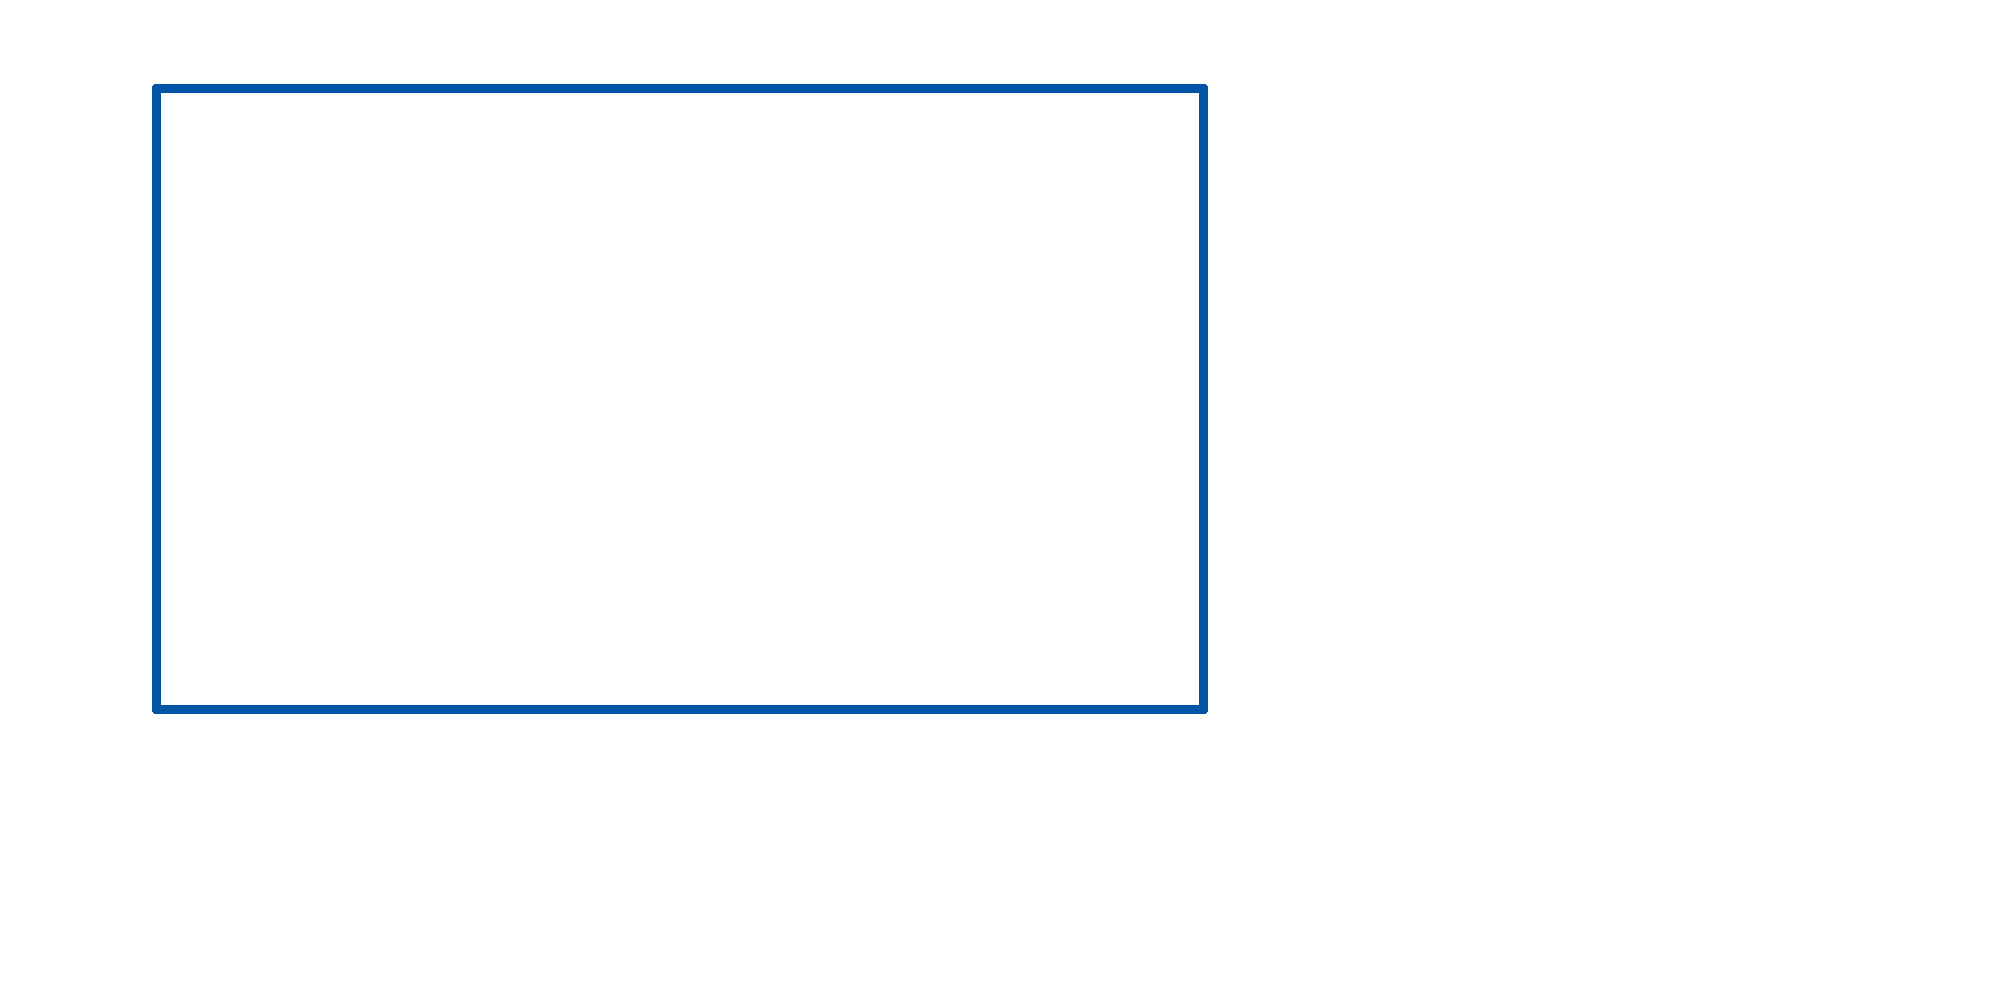
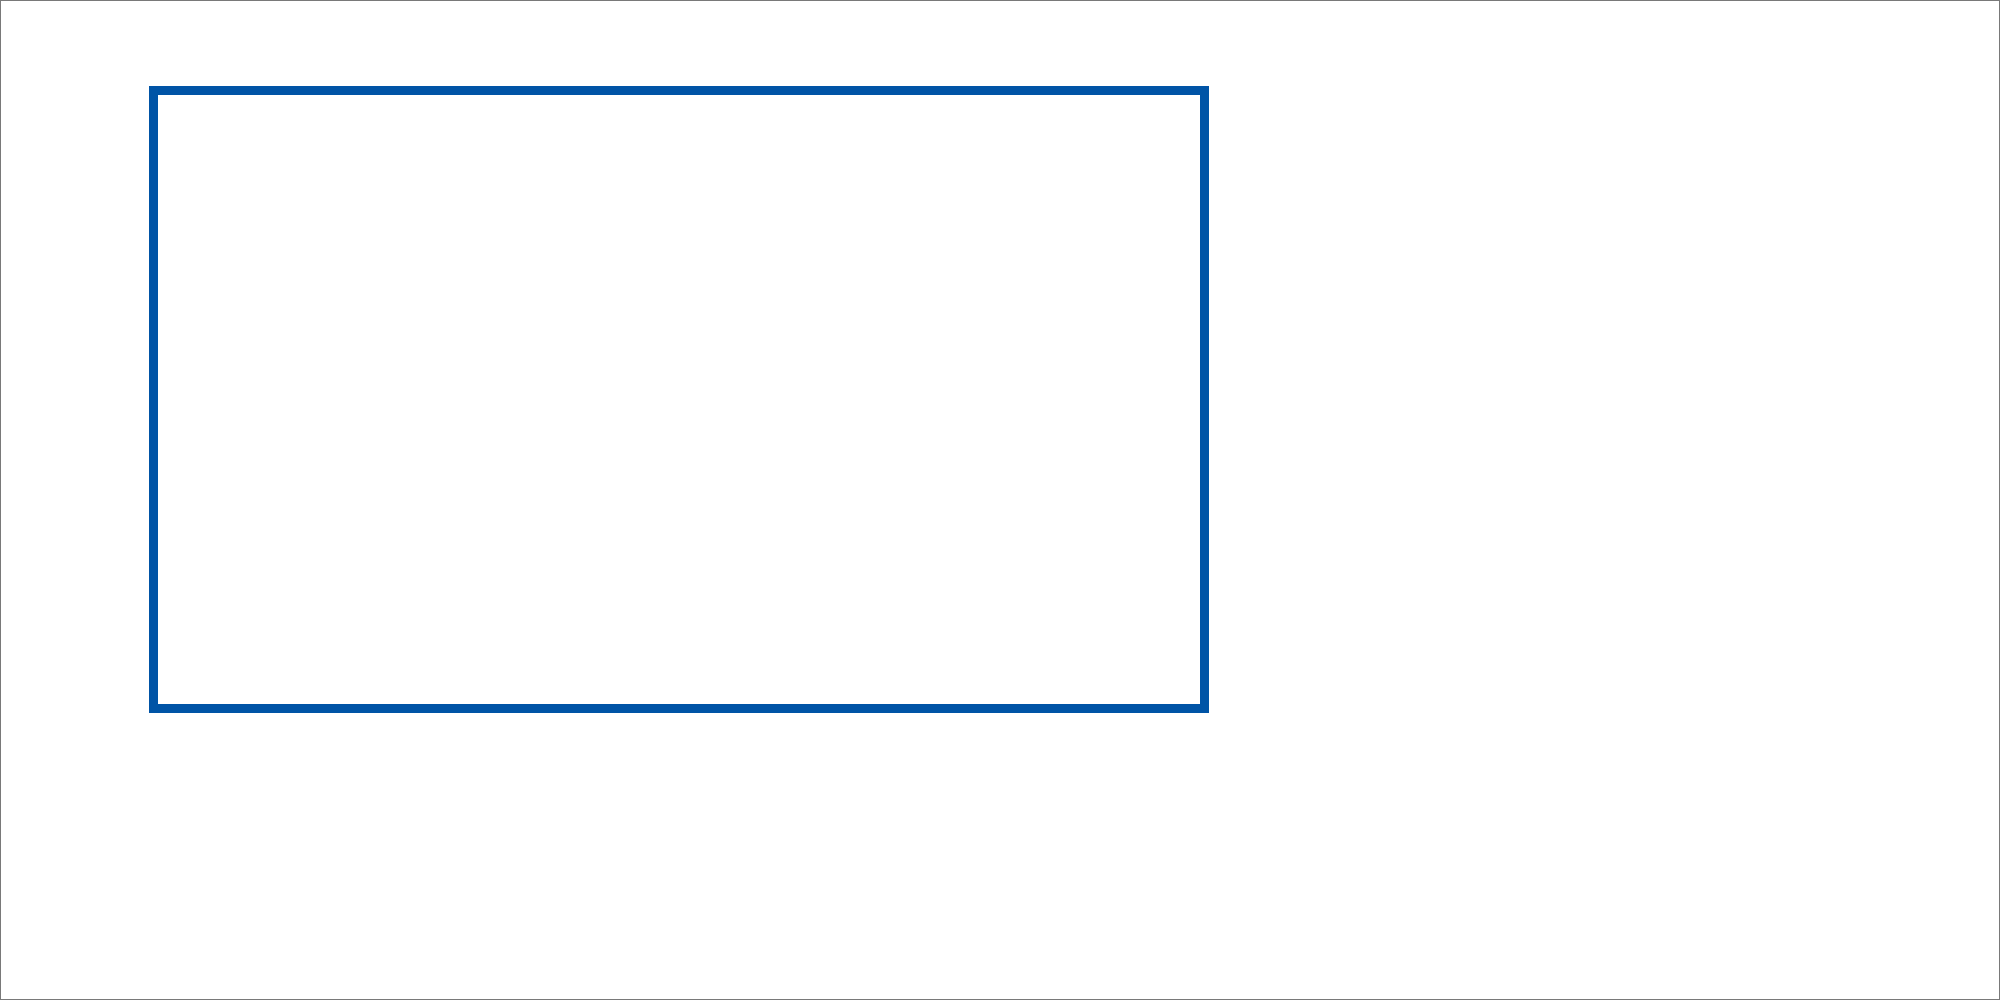
World file calc: Scaling works. 2 down, 1 to go.

Changed region(s): [[0.0, 0.992, 1.0, 1.0], [0.062, 0.093, 0.093, 0.124]]

diff --git a/main.php b/main.php
@@ -1,6 +1,6 @@
 <?php
 /*
- * Copyright � 2011 by Peter Soots
+ * Copyright  2011 by Peter Soots
  * 
  * Permission is hereby granted, free of charge, to any person obtaining a copy
  * of this software and associated documentation files (the "Software"), to deal
@@ -206,6 +206,56 @@ $_SESSION['mapFile'] = $dataDir."mapfile.map";
 		l("baseH: "+baseH);
 		l("baseA: "+baseA);
 		l("baseB: "+baseB);
+		 
+		// Scaling
+		///////////////////////////////////////////////////////////////////////////////
+		// To scale the image we just need to calculate the X and Y components between
+		// point A and point B in both images. To figure out how much to scale the sub
+		// image we just figure out the right ratio between the base image's components
+		// and the sub image's components.
+		var subXComponent = subA.getXComponent(subB);
+		var subYComponent = subA.getYComponent(subB);
+		var baseXComponent = baseA.getXComponent(baseB);
+		var baseYComponent = baseA.getYComponent(baseB);
+		l("subXComponent: "+subXComponent);
+		l("subYComponent: "+subYComponent);
+		l("baseXComponent: "+baseXComponent);
+		l("baseYComponent: "+baseYComponent);
+		
+		// Calculate the ratio. NOTE: Our math uses the Cartesian plane, but internet
+		// images don't, so the yScale is opposite from what you'd think it should be.
+		var xScale = baseXComponent / subXComponent;
+		var yScale = baseYComponent / subYComponent * -1;
+		l("xScale: "+xScale);
+		l("yScale: "+yScale);
+		
+		
+		// Translation 
+		////////////////////////////////////////////////////////////////////////////////////
+		// Get the X and Y of SubA. Once we place the origin of the sub image onto BaseA
+		// we'll need to "move back" so that SubA is on BaseA. But now that we're working in 
+		// the base image's space, we need to use its scaling.
+		
+		var origin = new Point(0,0);
+		l("x: "+origin.getXComponent(subA));
+		l("y: "+origin.getYComponent(subA));
+		var moveX = origin.getXComponent(subA) * xScale;
+		var moveY = origin.getYComponent(subA) * yScale; 
+		// No matter what, we need to move up and to the left. 
+		if(moveX < 0) moveX *= -1;
+		if(moveY > 0) moveY *= -1;
+		l("moveX: "+moveX);
+		l("moveY: "+moveY);
+		 
+		// If we place the sub image so that it's origin is on BaseA, we then need to counter
+		// that movement by moving SubA back to its origin. So, get the X and Y of BaseA and
+		// subtract the X and Y of SubA (in the base image's scaling).
+		var upperleftX = origin.getXComponent(baseA) - moveX;
+		var upperleftY = origin.getYComponent(baseA) - moveY;
+		l("upperleftX: "+upperleftX);
+		l("upperleftY: "+upperleftY);
+		
+		
 		/*
 		 * First we need to find the angles from the x axis starting at point A.
 		 * To do this, we need the x and y components between the points and then we
@@ -221,36 +271,11 @@ $_SESSION['mapFile'] = $dataDir."mapfile.map";
 		 * Then, we just need to calculate the top left coordinates for lines C and F.
 		 */
 		 
-		/*
-		 * Get the components of the line from A to B for the sub and base images.
-		 */
-		var subXComponent = subA.getXComponent(subB);
-		var subYComponent = subA.getYComponent(subB);
-		var baseXComponent = baseA.getXComponent(baseB);
-		var baseYComponent = baseA.getYComponent(baseB);
-		l("subXComponent: "+subXComponent);
-		l("subYComponent: "+subYComponent);
-		l("baseXComponent: "+baseXComponent);
-		l("baseYComponent: "+baseYComponent);
-		
-		/*
-		 * We can determine how much we need to scale the sub image by looking at the 
-		 * components between point A and B. These are the world file lines A and E.
-		 * If these end up negative or positive, that's fine because that will flip the
-		 * image appropriately.
-		 */
-		var xScale = baseXComponent / subXComponent;
-		var yScale = baseYComponent / subYComponent;
-		l("xScale: "+xScale);
-		l("yScale: "+yScale);
-		
-		/*
-		 * Find the angles for the AB line.
-		 */
-		var subAngle = Math.atan(subYComponent / subXComponent);
-		var baseAngle = Math.atan(baseYComponent / baseXComponent);
-		l("subAngle: "+subAngle);
-		l("baseAngle: "+baseAngle);
+		// Find the angles for the AB line.
+		//var subAngle = Math.atan(subYComponent / subXComponent);
+		//var baseAngle = Math.atan(baseYComponent / baseXComponent);
+		//l("subAngle: "+subAngle);
+		//l("baseAngle: "+baseAngle);
 		
 		/*
 		 * The angle of rotation is how much we need to rotate the sub image
@@ -261,36 +286,20 @@ $_SESSION['mapFile'] = $dataDir."mapfile.map";
 		 * quadrant to work in. However, we have to be careful that negative
 		 * angles are subtracted correctly.
 		 */
-		var angleOfRotation;
-		if((xScale < 0 || yScale < 0) && !(xScale < 0 && yScale < 0))
-			angleOfRotation = baseAngle + subAngle; // one of the angles is negative
-		else
-			angleOfRotation = baseAngle - subAngle; // the angles are either both pos. or both neg.
-		l("angleOfRotation: "+angleOfRotation);
+		//var angleOfRotation;
+		//if((xScale < 0 || yScale < 0) && !(xScale < 0 && yScale < 0))
+		//	angleOfRotation = baseAngle + subAngle; // one of the angles is negative
+		//else
+		//	angleOfRotation = baseAngle - subAngle; // the angles are either both pos. or both neg.
+		//l("angleOfRotation: "+angleOfRotation);
 		
-		/*
-		 * Calculate lines B and D using trig.
-		 */
-		ySkew = xScale * Math.tan(angleOfRotation);
-		xSkew = yScale * Math.tan(angleOfRotation);
-		l("xSkew: "+xSkew);
-		l("ySkew: "+ySkew);
-		
-		// Translation 
-		////////////////////////////////////////////////////////////////////////////////////
-		// Get the X and Y of SubA. Once we place the origin of the sub image onto BaseA
-		// we'll need to "move back" so that SubA is on BaseA. But now that we're working in 
-		// the base image's space, we need to use its scaling.
-		
-		var origin = new Point(0,0);
-		var moveX = origin.getXComponent(subA) * xScale;
-		var moveY = origin.getYComponent(subA) * yScale; // Will and should be negative
-		 
-		// If we place the sub image so that it's origin is on BaseA, we then need to counter
-		// that movement by moving SubA back to its origin. So, get the X and Y of BaseA and
-		// subtract the X and Y of SubA (in the base image's scaling).
-		var upperleftX = origin.getXComponent(baseA) - moveX;
-		var upperleftY = origin.getYComponent(baseA) - moveY;
+		// Calculate lines B and D using trig.
+	   //ySkew = xScale * Math.tan(angleOfRotation);
+		//xSkew = yScale * Math.tan(angleOfRotation);
+		//l("xSkew: "+xSkew);
+		//l("ySkew: "+ySkew);
+		var ySkew = 0; 
+		var xSkew = 0;
 
 		return new WorldFile(xScale, ySkew, xSkew, yScale, upperleftX, upperleftY);
 		
@@ -358,7 +367,7 @@ $_SESSION['mapFile'] = $dataDir."mapfile.map";
 		var bnds = new OpenLayers.Bounds(0, -h, w, 0);
 		//var sz = new OpenLayers.Size(w, h);
 		var area = h * w;
-		var res = 1;//Math.log(area) * Math.LOG10E; // calculates base 10 of area
+		var res = Math.log(area) * Math.LOG10E; // calculates base 10 of area
 	
 		var options = { maxExtent : bnds, maxResolution: res};
 		

diff --git a/alterImage.php b/alterImage.php
@@ -58,12 +58,13 @@ $string = $A."\n".$D."\n".$B."\n".$E."\n".$C."\n".$F."\n";
 $rotation_only = "1\n".$D."\n".$B."\n-1\n0\n0\n";
 $scaling_only = $A."\n0\n0\n".$E."\n0\n0\n";
 $translation_only = "1\n0\n0\n-1\n".$C."\n".$F."\n";
+$scale_trans_only = $A."\n0\n0\n".$E."\n".$C."\n".$F."\n";
 
 // A no-change worldfile, for the base image
 $worldFile = "1\n0\n0\n-1\n0\n0\n";
 
 //file_put_contents($_SESSION['subWorldFile'], $string); // original
-file_put_contents($_SESSION['subWorldFile'], $translation_only);   // testing only, removed eventually
+file_put_contents($_SESSION['subWorldFile'], $scale_trans_only);   // testing only, removed eventually
 
 // the user may one day want to associate a world file with the base image (for now, it's just a default one)
 file_put_contents($_SESSION['baseWorldFile'], $worldFile); 
